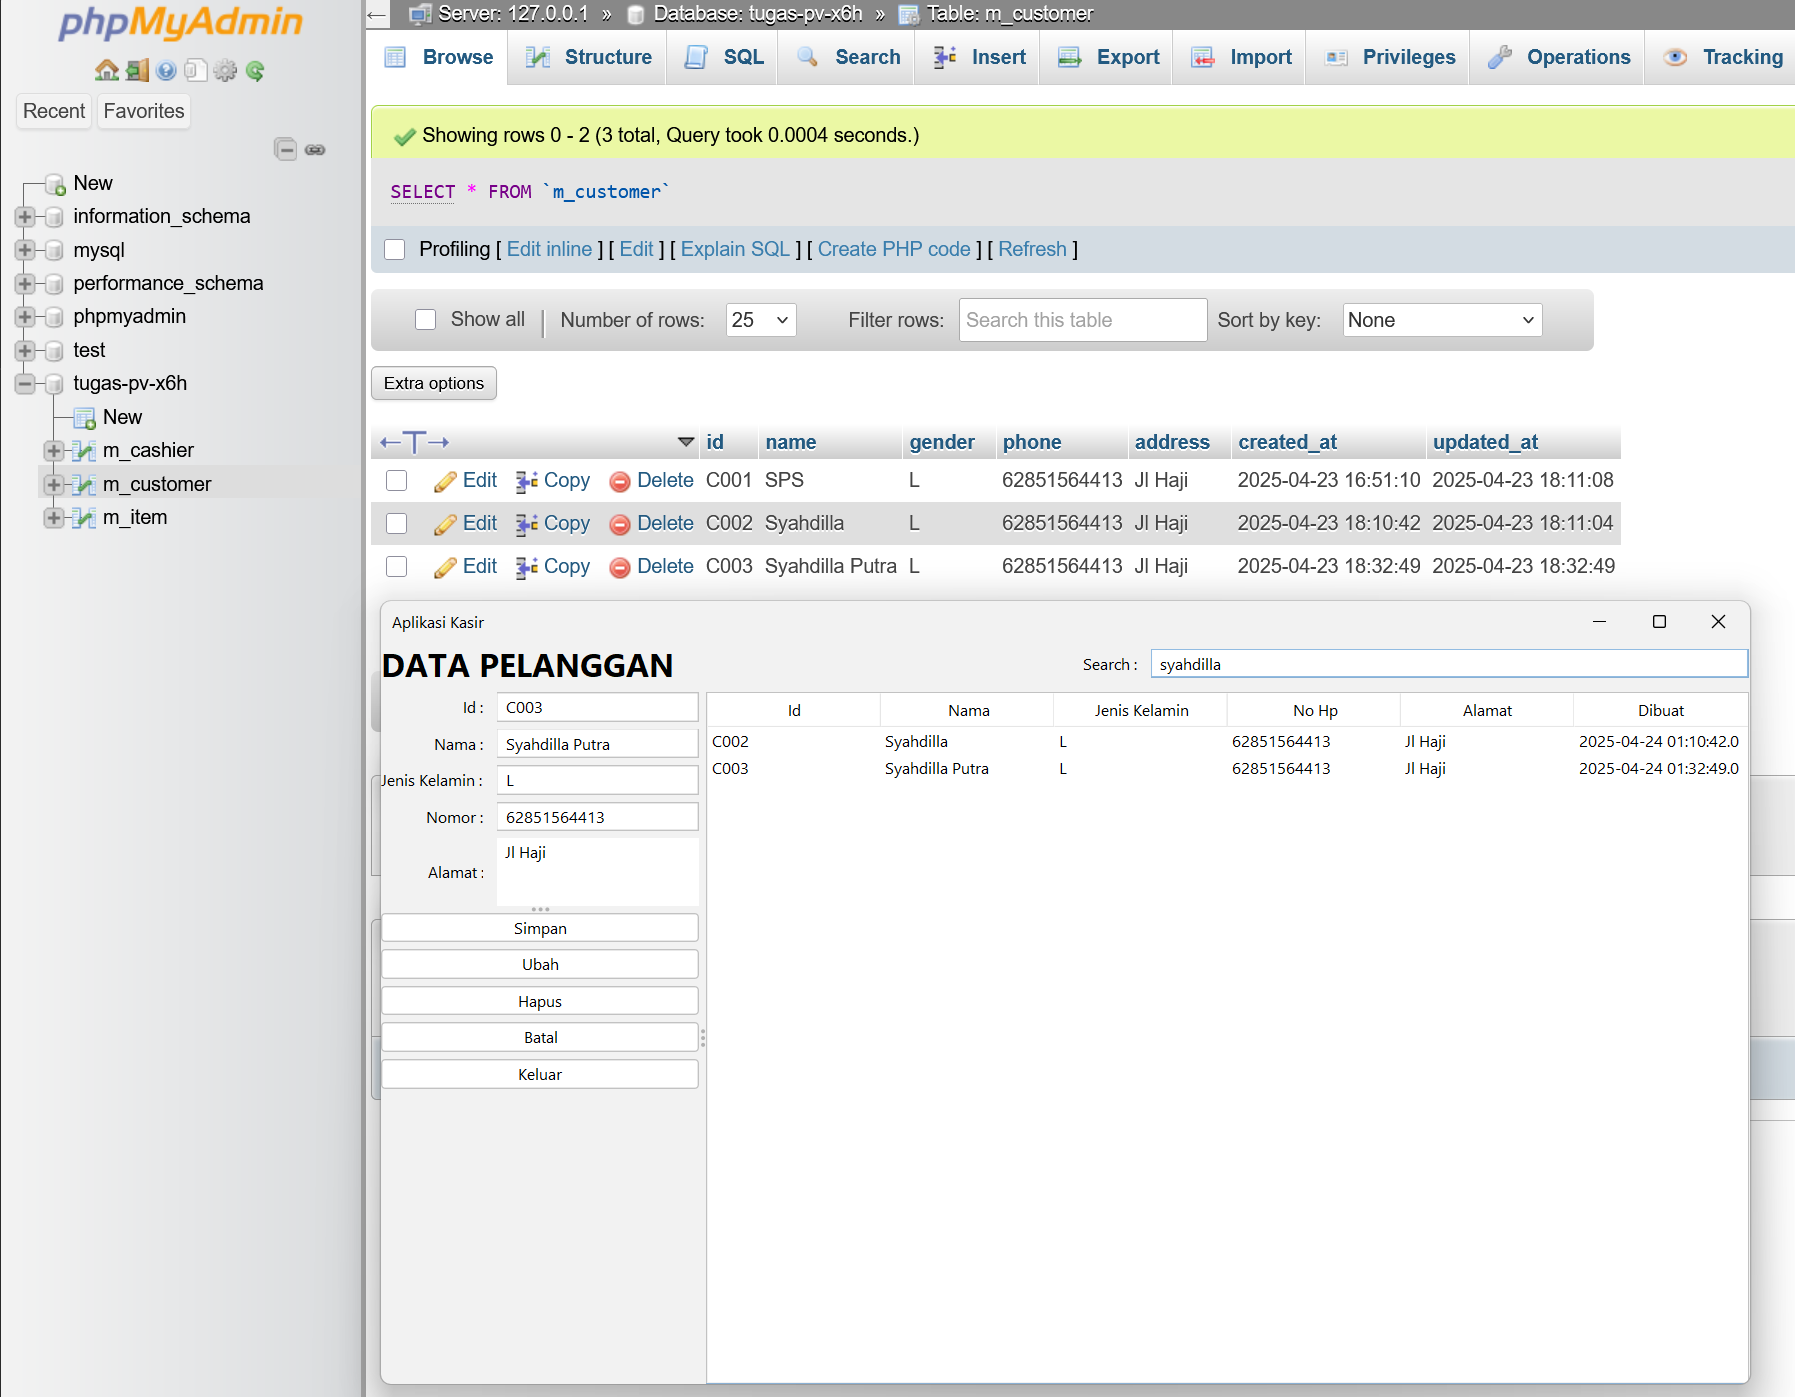
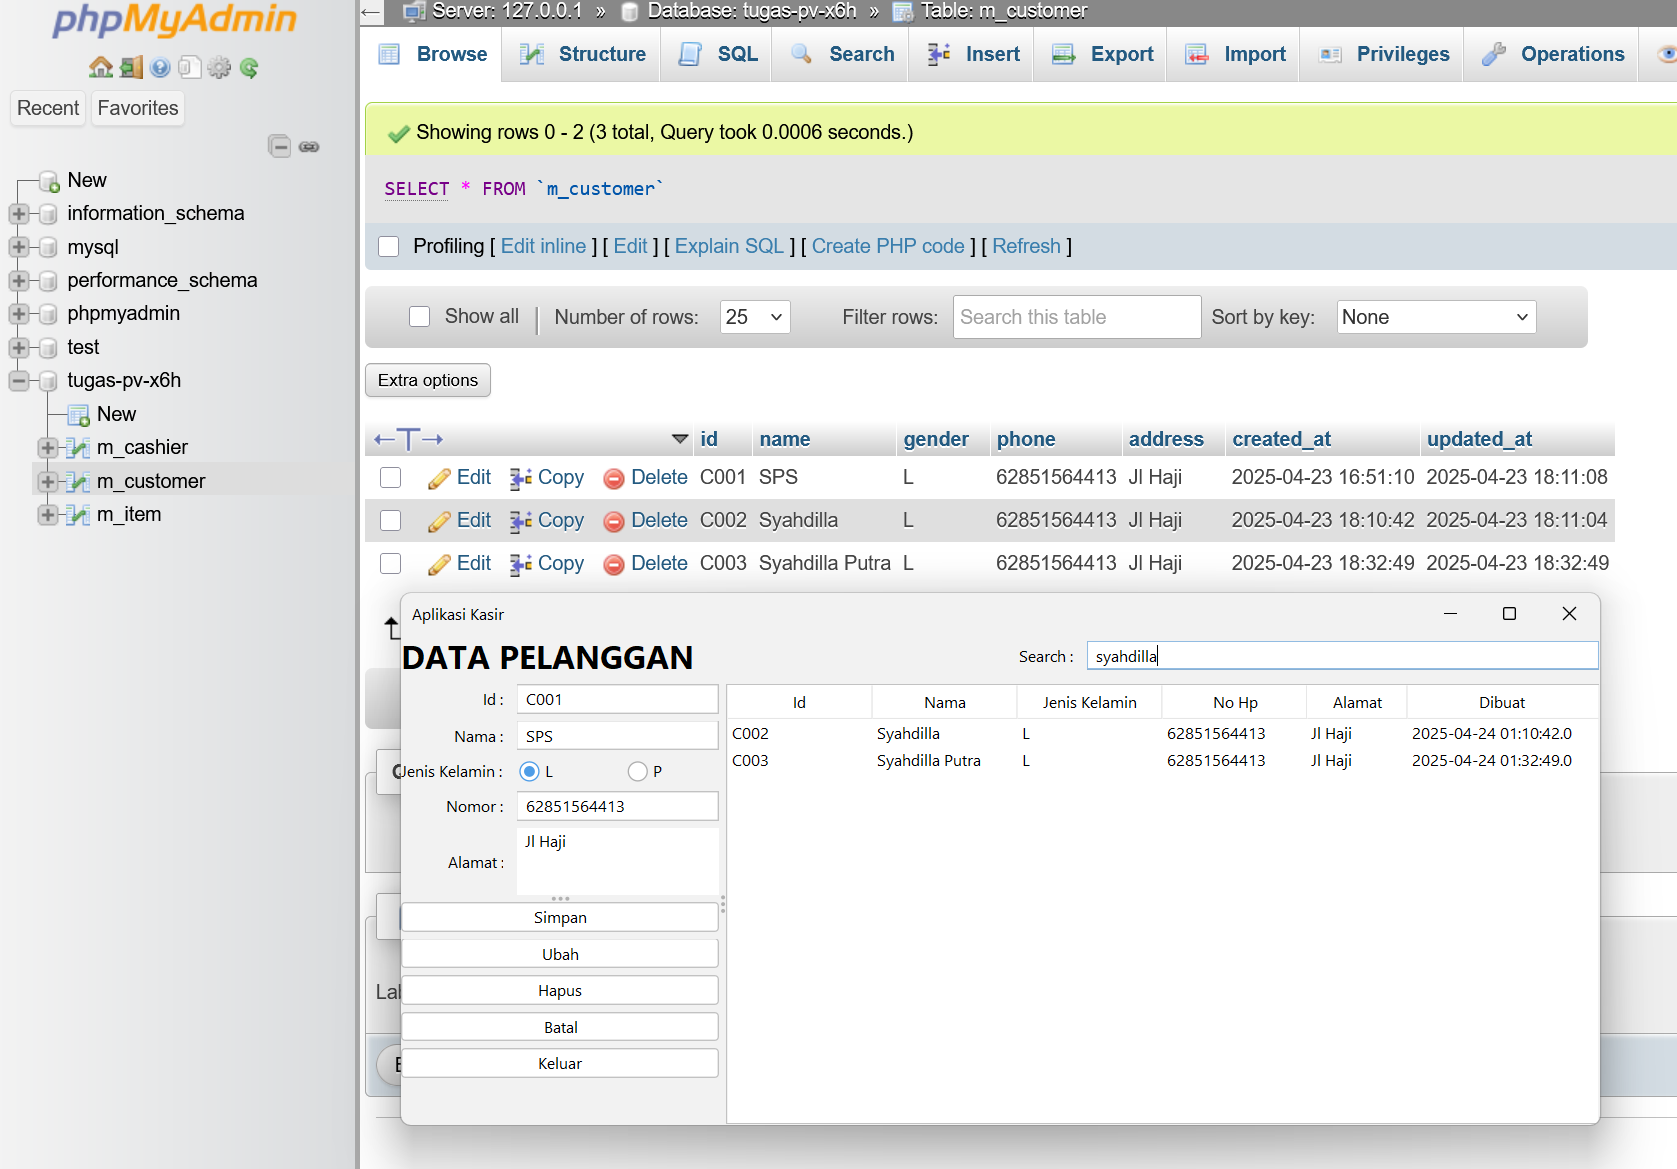
🛠 refactor(MainFrame): Update UI layout and remove unused imports

diff --git a/src/main/java/me/syahdilla/putra/sholeh/MainFrame.java b/src/main/java/me/syahdilla/putra/sholeh/MainFrame.java
@@ -1,15 +1,13 @@
 package me.syahdilla.putra.sholeh;
 
 import com.formdev.flatlaf.FlatLightLaf;
-import me.syahdilla.putra.sholeh.form.cashier.CashierForm;
-import me.syahdilla.putra.sholeh.form.customer.CustomerForm;
-import me.syahdilla.putra.sholeh.form.item.ItemForm;
+import com.formdev.flatlaf.extras.FlatAnimatedLafChange;
+import me.syahdilla.putra.sholeh.form.main.MainForm;
 import me.syahdilla.putra.sholeh.repository.MySQLRepository;
 import org.slf4j.Logger;
 import org.slf4j.LoggerFactory;
 
 import javax.swing.*;
-import java.awt.*;
 import java.io.IOException;
 import java.io.InputStream;
 import java.util.Properties;
@@ -55,14 +53,20 @@ public class MainFrame extends JFrame {
     log.info("Starting UI application");
     setTitle("Aplikasi Kasir");
     setDefaultCloseOperation(JFrame.EXIT_ON_CLOSE);
-    setSize(500, 400);
+    setSize(300, 340);
     setLocationRelativeTo(null);
-//    setLayout(new MigLayout("al center center"));
-//    add(new ItemForm(mySQLRepository).getMainPanel(), BorderLayout.CENTER);
-//    add(new CustomerForm(mySQLRepository).getMainPanel(), BorderLayout.CENTER);
-    add(new CashierForm(mySQLRepository).getMainPanel(), BorderLayout.CENTER);
+    setContainer(new MainForm(this, mySQLRepository).getMainPanel());
     setVisible(true);
     log.info("UI application started");
+  }
+
+  public void setContainer(JComponent component) {
+    setLocationRelativeTo(null);
+    FlatAnimatedLafChange.showSnapshot();
+    setContentPane(component);
+    component.applyComponentOrientation(getComponentOrientation());
+    SwingUtilities.updateComponentTreeUI(component);
+    FlatAnimatedLafChange.hideSnapshotWithAnimation();
   }
 
 }

diff --git a/src/main/java/me/syahdilla/putra/sholeh/form/main/MainForm.java b/src/main/java/me/syahdilla/putra/sholeh/form/main/MainForm.java
@@ -1,0 +1,38 @@
+package me.syahdilla.putra.sholeh.form.main;
+
+import me.syahdilla.putra.sholeh.MainFrame;
+import me.syahdilla.putra.sholeh.form.cashier.CashierForm;
+import me.syahdilla.putra.sholeh.form.customer.CustomerForm;
+import me.syahdilla.putra.sholeh.form.item.ItemForm;
+import me.syahdilla.putra.sholeh.repository.MySQLRepository;
+
+import javax.swing.*;
+
+public class MainForm {
+
+  private JPanel mp;
+  private JButton bukaButton;
+  private JButton bukaButton1;
+  private JButton bukaButton2;
+
+
+  public MainForm(MainFrame mainFrame, MySQLRepository mySQLRepository) {
+    bukaButton.addActionListener(e -> {
+      mainFrame.setSize(800, 500);
+      mainFrame.setContainer(new CashierForm(mySQLRepository).getMainPanel());
+    });
+    bukaButton1.addActionListener(e -> {
+      mainFrame.setSize(800, 500);
+      mainFrame.setContainer(new ItemForm(mySQLRepository).getMainPanel());
+    });
+    bukaButton2.addActionListener(e -> {
+      mainFrame.setSize(800, 500);
+      mainFrame.setContainer(new CustomerForm(mySQLRepository).getMainPanel());
+    });
+  }
+
+  public JPanel getMainPanel() {
+    return mp;
+  }
+
+}
